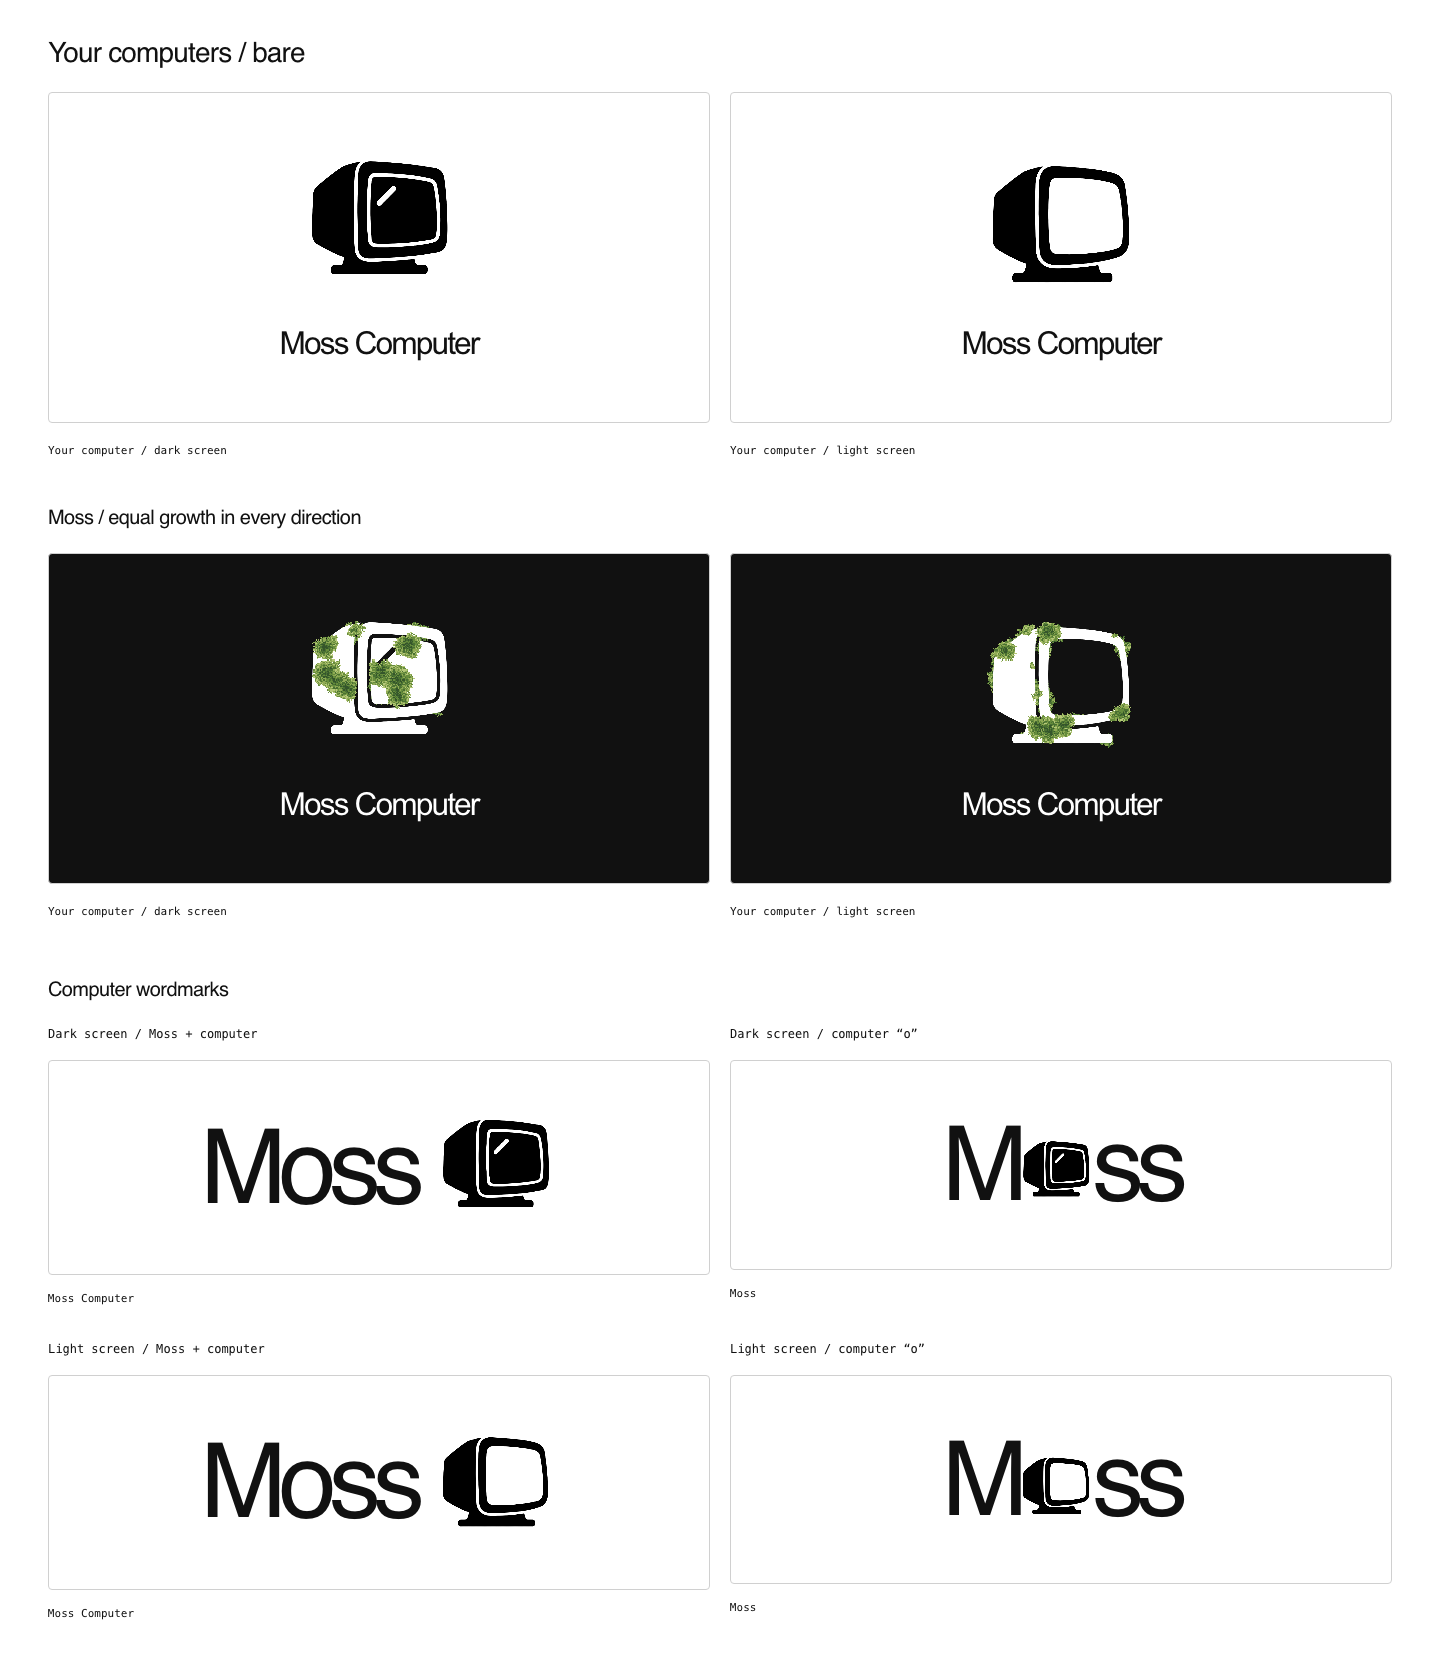
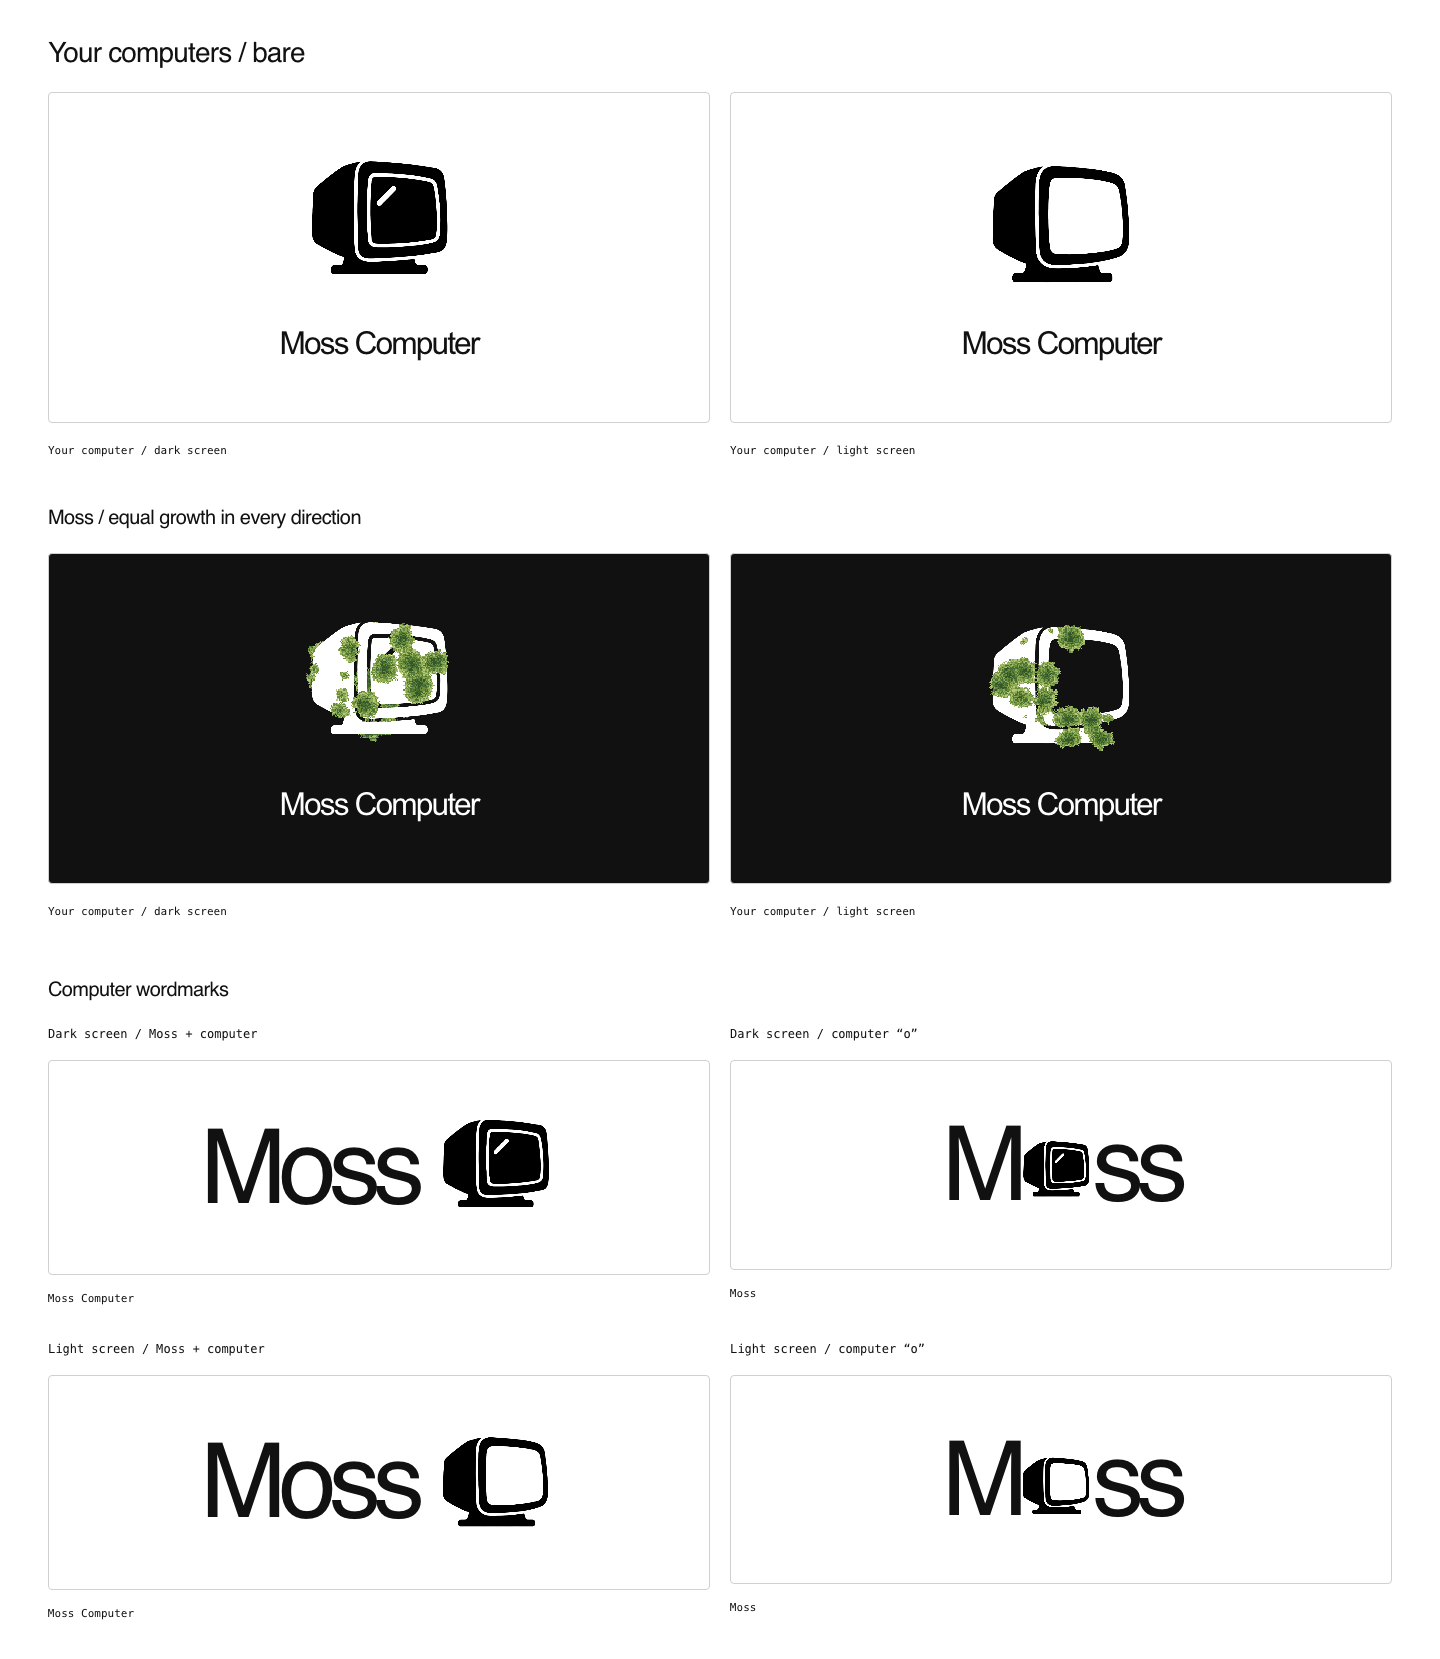
Let moss spread across screens without seeding and prefer the light computer

Changed region(s): [[0.2188, 0.3689, 0.3125, 0.4611], [0.6875, 0.3689, 0.7812, 0.4611]]

diff --git a/moss-field.js b/moss-field.js
@@ -8,7 +8,7 @@ export function createHabitat(width, height, surface) {
   // A circular fringe gives every direction the same room to grow.
   for (let y = 0; y < height; y++) {
     for (let x = 0; x < width; x++) {
-      if (surface[y * width + x] !== 2) continue;
+      if (surface[y * width + x] < 2) continue;
       for (let dy = -6; dy <= 6; dy++) {
         for (let dx = -6; dx <= 6; dx++) {
           if (dx * dx + dy * dy > 36 || x + dx < 0 || x + dx >= width || y + dy < 0 || y + dy >= height) continue;
@@ -79,7 +79,7 @@ function paintImage(ink, image, x, y, width, height, fillInterior) {
   ink.drawImage(mask, x, y, width, height);
 }
 
-export function createField(element, width, height, paintShape, spreadRate = 1) {
+export function createField(element, width, height, paintShape, spreadRate = 1, growInterior = false) {
   const back = element.querySelector('.back');
   const front = element.querySelector('.front');
   back.width = front.width = width;
@@ -92,6 +92,13 @@ export function createField(element, width, height, paintShape, spreadRate = 1) 
   const pixels = ink.getImageData(0, 0, width, height).data;
   const surface = new Uint8Array(width * height);
   for (let i = 0; i < surface.length; i++) if (pixels[i * 4 + 3] > 90) surface[i] = 2;
+  if (growInterior) {
+    // The second pass extends the surface without adding seed sites.
+    ink.clearRect(0, 0, width, height);
+    paintShape(ink, true);
+    const extendedPixels = ink.getImageData(0, 0, width, height).data;
+    for (let i = 0; i < surface.length; i++) if (!surface[i] && extendedPixels[i * 4 + 3] > 90) surface[i] = 3;
+  }
   const habitat = createHabitat(width, height, surface);
   const backContext = back.getContext('2d');
   const frontContext = front.getContext('2d');
@@ -105,7 +112,7 @@ export function createField(element, width, height, paintShape, spreadRate = 1) 
 }
 
 export function createIconField(element, image, options = {}) {
-  const { fullHeight = false, fillInterior = false, spreadRate = 1 } = options;
+  const { fullHeight = false, fillInterior = false, growInterior = false, spreadRate = 1 } = options;
   const container = element.querySelector('.icon-field');
   container.classList.toggle('full-height', fullHeight);
   const bounds = container.getBoundingClientRect();
@@ -113,10 +120,10 @@ export function createIconField(element, image, options = {}) {
   const width = fullHeight ? Math.ceil(bounds.width / 1.5) : 144;
   const height = fullHeight ? Math.ceil(bounds.height / 1.5) : Math.round(width * bounds.height / bounds.width);
   // Sample the actual icon placement so the native shape and moss stay aligned.
-  return createField(element, width, height, ink => paintImage(ink, image,
+  return createField(element, width, height, (ink, includeInterior) => paintImage(ink, image,
     (shape.left - bounds.left) / bounds.width * width,
     (shape.top - bounds.top) / bounds.height * height,
-    shape.width / bounds.width * width, shape.height / bounds.height * height, fillInterior), spreadRate);
+    shape.width / bounds.width * width, shape.height / bounds.height * height, fillInterior || (includeInterior && growInterior)), spreadRate, growInterior);
 }
 
 export function createWordmarkField(element, previous, imageOptions = {}) {
@@ -128,14 +135,15 @@ export function createWordmarkField(element, previous, imageOptions = {}) {
     canvas.style.width = `${width * 1.5}px`;
     canvas.style.height = `${height * 1.5}px`;
   }
-  return createField(element, width, height, ink => {
+  return createField(element, width, height, (ink, includeInterior) => {
+    ink.save();
     ink.scale(1 / 1.5, 1 / 1.5);
     for (const part of element.querySelectorAll('[data-ink]')) {
       const box = part.getBoundingClientRect();
       const x = 24 + box.left - bounds.left;
       const y = 24 + box.top - bounds.top;
       if (part instanceof HTMLImageElement) {
-        paintImage(ink, part, x, y, box.width, box.height, imageOptions.fillInterior);
+        paintImage(ink, part, x, y, box.width, box.height, imageOptions.fillInterior || (includeInterior && imageOptions.growInterior));
       } else {
         const style = getComputedStyle(part);
         ink.font = `${style.fontWeight} ${style.fontSize} ${style.fontFamily}`;
@@ -145,7 +153,8 @@ export function createWordmarkField(element, previous, imageOptions = {}) {
         ink.fillText(part.textContent, x, y + baseline);
       }
     }
-  });
+    ink.restore();
+  }, 1, imageOptions.growInterior);
 }
 
 function drawLayer(field, z) {

diff --git a/index.html b/index.html
@@ -10,18 +10,18 @@
   <meta property="og:type" content="website">
   <meta property="og:url" content="https://mosscomputer.com/">
   <link rel="canonical" href="https://mosscomputer.com/">
-  <link rel="icon" href="assets/computer-image-1.png">
+  <link rel="icon" href="assets/computer-image-2.png">
   <link rel="stylesheet" href="style.css">
   <title>Moss Computer</title>
   <script type="module" src="script.js"></script>
 </head>
 <body>
   <div class="page">
-    <header><span class="header-brand" aria-label="Moss Computer">Moss <img class="brand-icon" src="assets/computer-image-1.png" width="28" height="24" alt="Computer"></span><span>iPhone + NFC</span></header>
+    <header><span class="header-brand" aria-label="Moss Computer">Moss <img class="brand-icon" src="assets/computer-image-2.png" width="28" height="24" alt="Computer"></span><span>iPhone + NFC</span></header>
     <main>
       <section class="hero" aria-labelledby="name">
         <div>
-          <h1 id="name" aria-label="Moss Computer"><canvas class="moss-layer back" aria-hidden="true"></canvas><span data-ink>Moss</span><img data-ink class="brand-icon" src="assets/computer-image-1.png" width="614" height="532" alt=""><canvas class="moss-layer front" aria-hidden="true"></canvas></h1>
+          <h1 id="name" aria-label="Moss Computer"><canvas class="moss-layer back" aria-hidden="true"></canvas><span data-ink>Moss</span><img data-ink class="brand-icon" src="assets/computer-image-2.png" width="592" height="526" alt=""><canvas class="moss-layer front" aria-hidden="true"></canvas></h1>
           <p class="intro">Block distracting apps with a tap of an NFC tag.</p>
           <p class="soon">In development.</p>
         </div>
@@ -29,7 +29,7 @@
           <button class="screen" type="button" aria-label="Block apps in the preview and grow moss" aria-pressed="false" aria-describedby="preview-note">
             <span class="icon-field">
               <canvas class="moss-layer back" aria-hidden="true"></canvas>
-              <img class="icon" src="assets/computer-image-1.png" width="128" height="128" alt="">
+              <img class="icon" src="assets/computer-image-2.png" width="128" height="128" alt="">
               <canvas class="moss-layer front" aria-hidden="true"></canvas>
             </span>
           </button>

diff --git a/moss.js b/moss.js
@@ -1,6 +1,7 @@
 // Portable three-layer cellular automaton. One step represents 100 ms.
 // Depth 0: behind the shape; 1: solid shape and its fringe; 2: in front.
 // Cell values: 0 = bare, 1 = new growth, 255 = mature moss.
+// Habitat: 0 = unavailable, 1 = fringe, 2 = seeding surface, 3 = non-seeding surface.
 export class MossGrowth {
   constructor(width, height, habitat, random = Math.random, spreadRate = 1) {
     this.width = width;
@@ -21,7 +22,7 @@ export class MossGrowth {
   }
 
   isSolid(index) {
-    return Math.floor(index / this.area) === 1 && this.habitat[index % this.area] === 2;
+    return Math.floor(index / this.area) === 1 && this.habitat[index % this.area] >= 2;
   }
 
   setBlocked(blocked) {
@@ -61,7 +62,7 @@ export class MossGrowth {
             // Cross-depth growth goes around the shape, never through it.
             if (z > 0 && cells[i - area] > 12) influence += .7;
             if (z < this.depth - 1 && cells[i + area] > 12) influence += .7;
-            const chance = influence * (habitat[plane] === 2 ? .04 : .012) * this.spreadRate;
+            const chance = influence * (habitat[plane] >= 2 ? .04 : .012) * this.spreadRate;
             if (influence && this.random() < chance) next[i] = 1;
           }
         }

diff --git a/prototypes.html b/prototypes.html
@@ -4,7 +4,7 @@
   <meta charset="utf-8">
   <meta name="viewport" content="width=device-width, initial-scale=1">
   <meta name="robots" content="noindex">
-  <link rel="icon" href="assets/computer-image-1.png">
+  <link rel="icon" href="assets/computer-image-2.png">
   <link rel="stylesheet" href="style.css">
   <link rel="stylesheet" href="prototypes.css">
   <title>Moss — icon studies</title>
@@ -12,7 +12,7 @@
 </head>
 <body>
   <div class="page prototype-page">
-    <header><a class="header-brand" href="index.html" aria-label="Moss Computer">Moss <img class="brand-icon" src="assets/computer-image-1.png" width="28" height="24" alt=""></a><span>Icon studies</span></header>
+    <header><a class="header-brand" href="index.html" aria-label="Moss Computer">Moss <img class="brand-icon" src="assets/computer-image-2.png" width="28" height="24" alt=""></a><span>Icon studies</span></header>
     <main>
       <div class="study-heading">
         <div><h1>Icon studies</h1><p>Equal growth in every direction.</p></div>

diff --git a/icons.js b/icons.js
@@ -9,8 +9,8 @@ export const icons = [
   { id: 'computer-heavy', name: 'Computer / heavy (6)', src: 'assets/computer-heavy.svg' },
   { id: 'computer-solid', name: 'Computer / filled', src: 'assets/computer-solid.svg' },
   { id: 'computer-thin-surface', name: 'Thin / surface growth, slower', src: 'assets/computer-thin.svg', fillInterior: true, spreadRate: .45 },
-  { id: 'computer-image-1', name: 'Your computer / dark screen', src: 'assets/computer-image-1.png' },
-  { id: 'computer-image-2', name: 'Your computer / light screen', src: 'assets/computer-image-2.png' },
+  { id: 'computer-image-1', name: 'Your computer / dark screen', src: 'assets/computer-image-1.png', growInterior: true },
+  { id: 'computer-image-2', name: 'Your computer / light screen', src: 'assets/computer-image-2.png', growInterior: true },
 ];
 
-export const defaultIcon = icons.find(icon => icon.id === 'computer-image-1');
+export const defaultIcon = icons.find(icon => icon.id === 'computer-image-2');

diff --git a/README.md b/README.md
@@ -6,7 +6,7 @@ Static GitHub Pages site. No dependencies or build step.
 python3 -m http.server 8000
 ```
 
-Open http://localhost:8000. The header and title read **Moss [computer icon]**, using the supplied dark-screen computer PNG by default. Moss starts growing on the title before interaction. Tap the phone to block apps in the preview: moss grows on the computer while blocked and dries out after unblocking. Reduced-motion mode displays still images. Green is reserved for the moss.
+Open http://localhost:8000. The header and title read **Moss [computer icon]**, using the supplied light-screen computer PNG by default. Moss starts growing on the title before interaction. Tap the phone to block apps in the preview: moss grows on the computer while blocked and dries out after unblocking. Reduced-motion mode displays still images. Green is reserved for the moss.
 
 `moss.js` is the cellular automaton; `moss-field.js` builds and renders its habitat; `script.js` connects the landing-page interaction. The phone uses a 144 × 177 grid (previously 72 × 72); the title uses about 1.5 CSS pixels per cell. Each simulation has three depth slices. The shape occupies the solid middle slice and seeds moss on both faces. Every neighbor within a depth slice has equal influence. The circular habitat fringe also gives every direction the same space, with no downward lanes. Growth crosses depth around the shape's edges. Moss stays in place as it matures; it never detaches or falls.
 
@@ -22,10 +22,12 @@ GitHub Pages publishes the repository root on `main`. `CNAME` keeps the custom d
 
 ## Icon prototypes
 
-Open `prototypes.html` to compare the two supplied computer PNGs, with dark and light screens. Each appears in **Moss [computer]** and **M[computer]ss** wordmarks. The page also keeps the three outlined computer glyphs (2, 3.5, and 6-unit strokes), filled silhouette, stone/trunk studies, and river-stone “o.” Use **Grow all**, **Reset**, or tap an individual preview. **Try on site** opens `index.html?icon=<id>`; computer choices also update the title and header. Query values are limited to `icons.js`; unknown values use the supplied dark-screen computer.
+Open `prototypes.html` to compare the two supplied computer PNGs, with dark and light screens. Each appears in **Moss [computer]** and **M[computer]ss** wordmarks. The page also keeps the three outlined computer glyphs (2, 3.5, and 6-unit strokes), filled silhouette, stone/trunk studies, and river-stone “o.” Use **Grow all**, **Reset**, or tap an individual preview. **Try on site** opens `index.html?icon=<id>`; computer choices also update the title and header. Query values are limited to `icons.js`; unknown values use the supplied light-screen computer.
 
 `docs/provided-computers.png` compares the supplied images and both wordmark treatments. `docs/computer-studies.png` compares the SVG computer variants with and without moss. `docs/icon-studies.png` and `docs/icon-studies-grown.png` show all previews bare and with equal-direction moss growth.
 
-The supplied PNG files are unchanged. Only their dark pixels count as surface; white backgrounds, screens, and highlights do not seed moss. Moss can still spread into the six-cell fringe around the dark pixels. A separate thin-outline surface experiment fills enclosed screen/bezel regions and uses 45% of the normal spread/seeding probability while keeping maturation and drying unchanged. The original thin outline remains available for comparison. Text counters keep their original open masks. Native PNGs use monochrome contrast and blending to sit on white or black previews.
+The supplied PNG files are unchanged. Only dark pixels seed new colonies. Enclosed white screens and highlights are surface too, allowing existing moss to spread across their front and back faces without spawning there. The middle slice stays solid. The exterior background supports only the six-cell fringe around the computer. Text counters keep their original open masks. Native PNGs use monochrome contrast and blending to sit on white or black previews.
+
+The habitat is one byte per cell: 0 = unavailable, 1 = fringe, 2 = seeding surface, 3 = non-seeding surface. Seed sites come only from value 2; both 2 and 3 block the middle slice and use the surface spread rate. An optional second image-mask pass adds enclosed surface with value 3 while preserving the original dark seed pixels and text masks. The separately labeled thin-outline surface experiment continues to seed across its filled silhouette at 45% of normal spread/seeding probability; maturation and drying are unchanged.
 
 The tree trunk fills the preview vertically, from roots at the bottom through the top edge. Its moss grid uses approximately 1.5 CSS pixels per cell; regular icons keep a 144-column grid with height following their preview's aspect ratio. The habitat is sampled from the icon's actual placement so both rendering layers align. The landing-page title and river stone wordmark share the same text/image mask operation, using native font metrics and rebuilding when their size changes.
